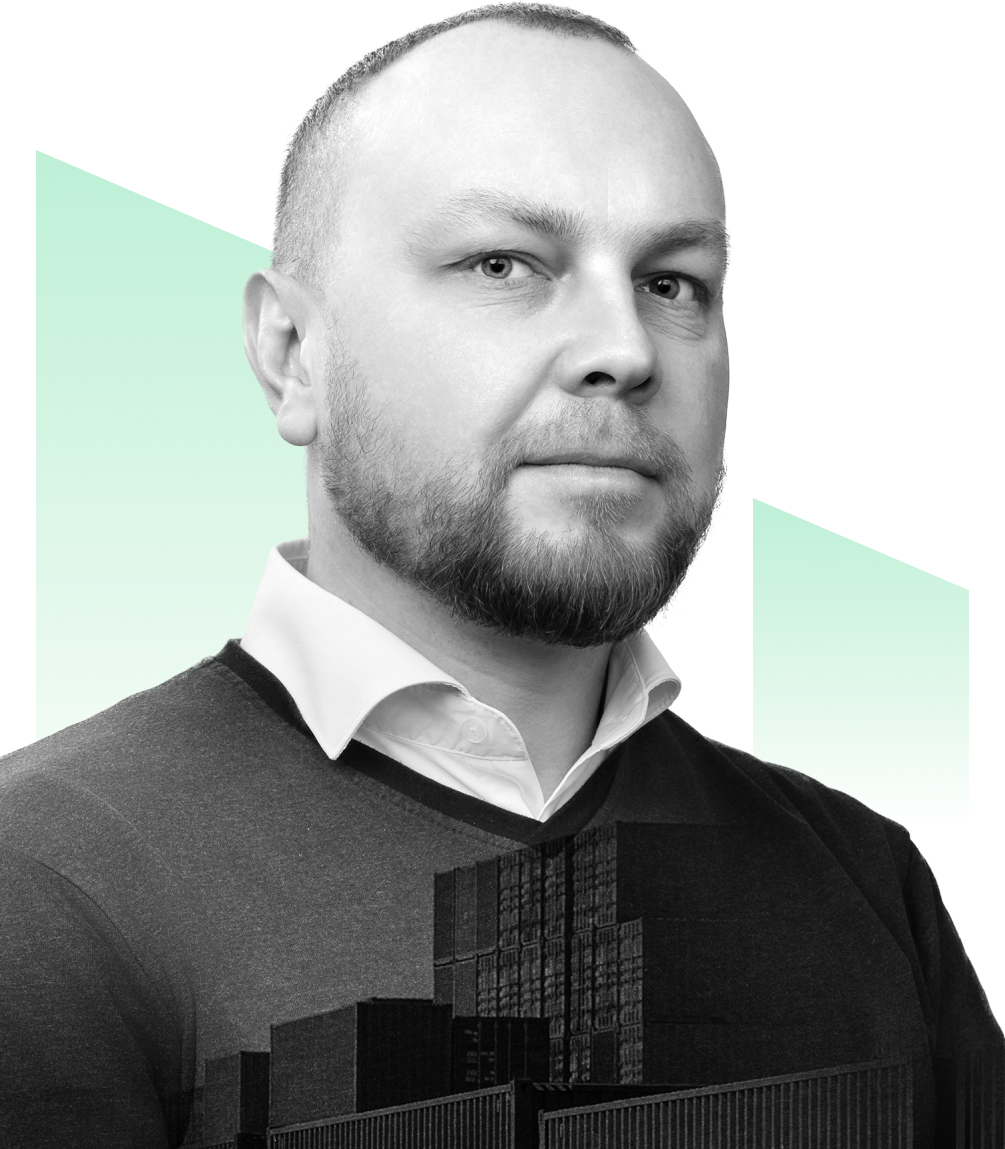
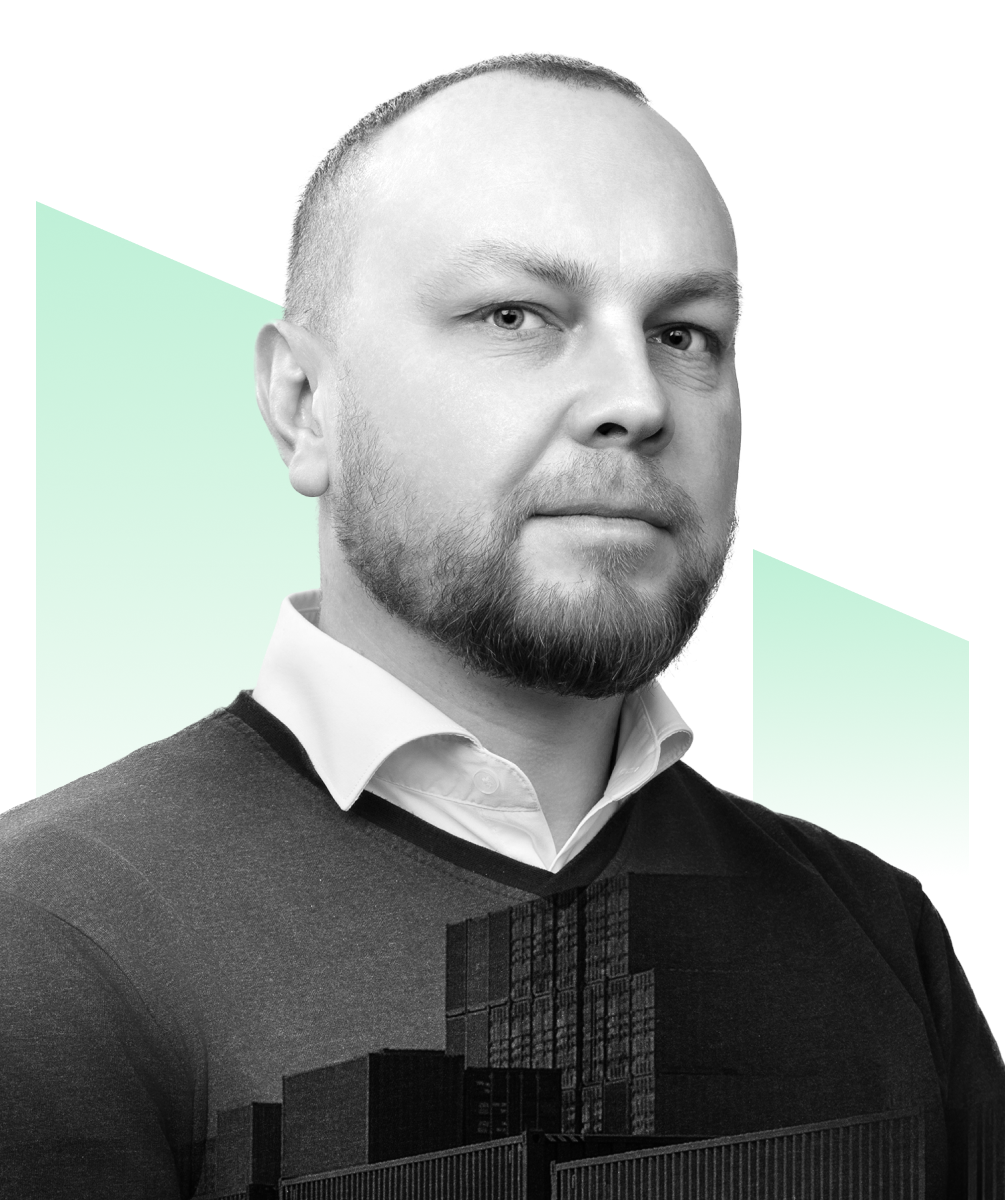
up

diff --git a/src/styles/content/components/preview.scss b/src/styles/content/components/preview.scss
@@ -104,7 +104,7 @@
 
   &__img {
     position: relative;
-    height: 640px;
+    // height: 640px;
     z-index: $index-1;
 
     max-width: 650px;
@@ -585,9 +585,6 @@
       height: auto;
     }
 
-    &__img {
-      height: 400px;
-    }
 
     &__name {
       font-size: 14px;
